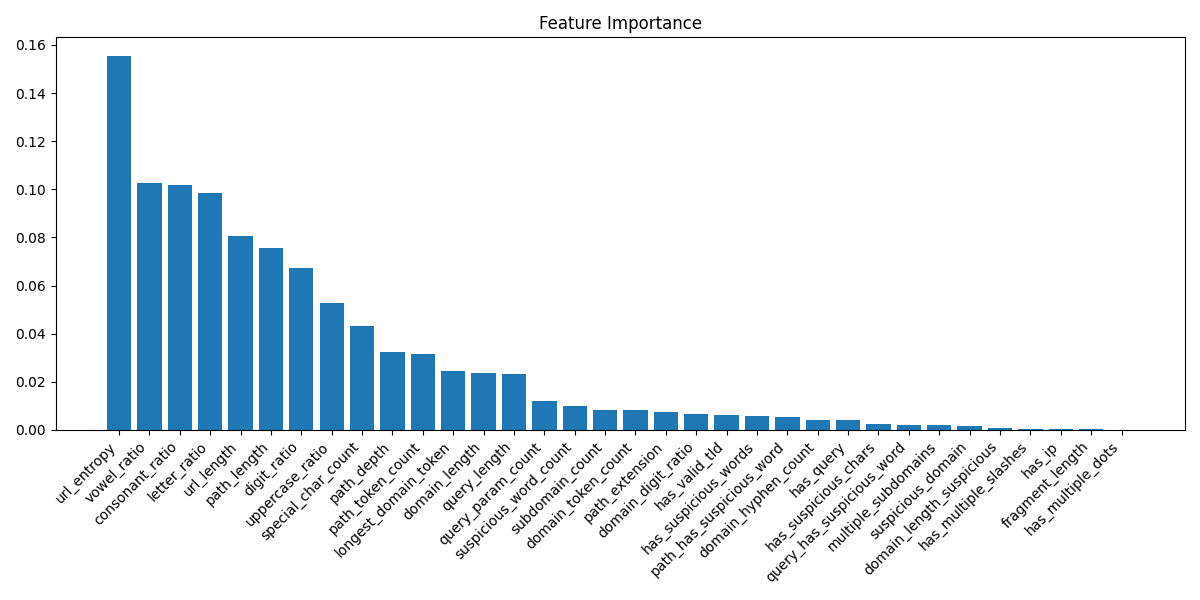
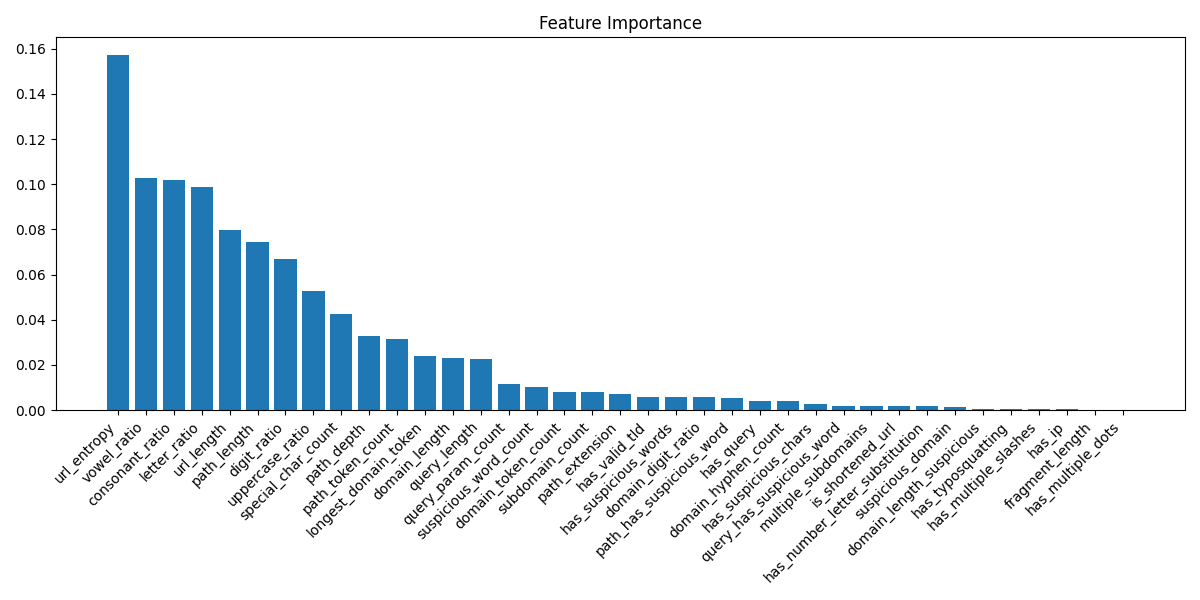
Fixed URL detection with improved whitelisting and stricter checks for typosquatting

diff --git a/src/features/feature_extractor.py b/src/features/feature_extractor.py
@@ -29,6 +29,19 @@ class FeatureExtractor:
             '.exe', '.dll', '.bat', '.sh', '.php', '.jsp',
             '.cgi', '.scr', '.vbs', '.js', '.jar'
         }
+        
+        # Dodajemo nove suspicious patterns
+        self.suspicious_patterns = {
+            'bit.ly',          # URL shorteners
+            'tinyurl.com',
+            'goo.gl',
+            't.co',
+            'micr0s0ft',      # Typosquatting
+            'micosoft',
+            'mircosoft',
+            'microsft',
+            '0' # Zero instead of 'o'
+        }
 
     def extract_features(self, url):
         """Extract features from a single URL"""
@@ -67,7 +80,8 @@ class FeatureExtractor:
             'suspicious_word_count', 'has_suspicious_words',
             'suspicious_domain', 'domain_length_suspicious', 'multiple_subdomains',
             'path_has_suspicious_word', 'query_has_suspicious_word',
-            'has_suspicious_chars', 'has_multiple_slashes', 'has_multiple_dots'
+            'has_suspicious_chars', 'has_multiple_slashes', 'has_multiple_dots',
+            'is_shortened_url', 'has_typosquatting', 'has_number_letter_substitution'
         ]
     
     def _get_basic_features(self, url):
@@ -79,7 +93,7 @@ class FeatureExtractor:
         }
     
     def _get_domain_features(self, parsed_url):
-        domain = parsed_url.netloc
+        domain = parsed_url.netloc.lower()
         parts = domain.split('.')
         
         features = {
@@ -95,6 +109,13 @@ class FeatureExtractor:
             'domain_length_suspicious': len(domain) > 30,
             'multiple_subdomains': domain.count('.') > 2
         }
+        
+        # Dodajemo nove provjere
+        features.update({
+            'is_shortened_url': any(shortener in domain for shortener in ['bit.ly', 'tinyurl.com', 'goo.gl', 't.co']),
+            'has_typosquatting': self._check_typosquatting(domain),
+            'has_number_letter_substitution': self._check_number_substitution(domain)
+        })
         
         return features
         
@@ -159,3 +180,22 @@ class FeatureExtractor:
     def _get_default_features(self):
         """Return default feature values when URL processing fails"""
         return {name: 0 for name in self._get_feature_names()}
+    
+    def _check_typosquatting(self, domain):
+        """Check for common typosquatting patterns"""
+        known_brands = ['microsoft', 'google', 'facebook', 'apple', 'amazon', 'paypal']
+        # Dodana stroža provjera - mora sadržavati barem 70% znakova branda
+        for brand in known_brands:
+            if brand in domain and domain != brand:
+                similarity = sum(c in domain for c in brand) / len(brand)
+                if similarity > 0.7:
+                    return True
+        return False
+    
+    def _check_number_substitution(self, domain):
+        """Check for number substitutions (0 for o, 1 for l, etc)"""
+        substitutions = {'0': 'o', '1': 'l', '3': 'e', '4': 'a', '5': 's'}
+        # Provjeravamo samo ako domena nije potpuno brojčana
+        if not domain.isdigit():
+            return any(num in domain for num in substitutions.keys())
+        return False

diff --git a/src/web/app.py b/src/web/app.py
@@ -1,7 +1,8 @@
 from flask import Flask, render_template, request, jsonify
 import sys
 import os
-import numpy as np  # Dodajemo numpy import
+import numpy as np
+from urllib.parse import urlparse  # Dodajemo ovaj import
 
 # Add project root to Python path
 project_root = os.path.dirname(os.path.dirname(os.path.dirname(os.path.abspath(__file__))))
@@ -38,9 +39,45 @@ def predict():
         url = request.form['url']
         print(f"Processing URL: {url}")
         
+        # Whitelist za poznate sigurne domene
+        known_safe_domains = {
+            'google.com', 'microsoft.com', 'github.com', 'wikipedia.org',
+            'python.org', 'apple.com', 'amazon.com', 'facebook.com'
+        }
+        
+        parsed_url = urlparse(url)
+        domain = parsed_url.netloc.lower()
+        base_domain = '.'.join(domain.split('.')[-2:])  # uzima zadnja dva dijela domene
+        
+        if (base_domain in known_safe_domains):
+            return render_template('result.html', result={
+                'url': url,
+                'is_malicious': False,
+                'confidence': 0.95,
+                'features': {},
+                'warning': 'Known safe domain'
+            })
+        
         # Extract features
         features = extractor.extract_features(url)
         feature_list = list(features.values())
+        
+        # Dodajemo strože provjere
+        immediate_flags = (
+            features.get('is_shortened_url', False),
+            features.get('has_typosquatting', False),
+            features.get('has_number_letter_substitution', False),
+            len(url) > 100,  # Vrlo dugi URL-ovi
+            features.get('suspicious_word_count', 0) > 2
+        )
+        
+        if any(immediate_flags):
+            return render_template('result.html', result={
+                'url': url,
+                'is_malicious': True,
+                'confidence': 0.95,
+                'warning': 'Suspicious patterns detected'
+            })
         
         # Dodajemo dodatnu provjeru za očite znakove malicioznosti
         obvious_malicious = (
